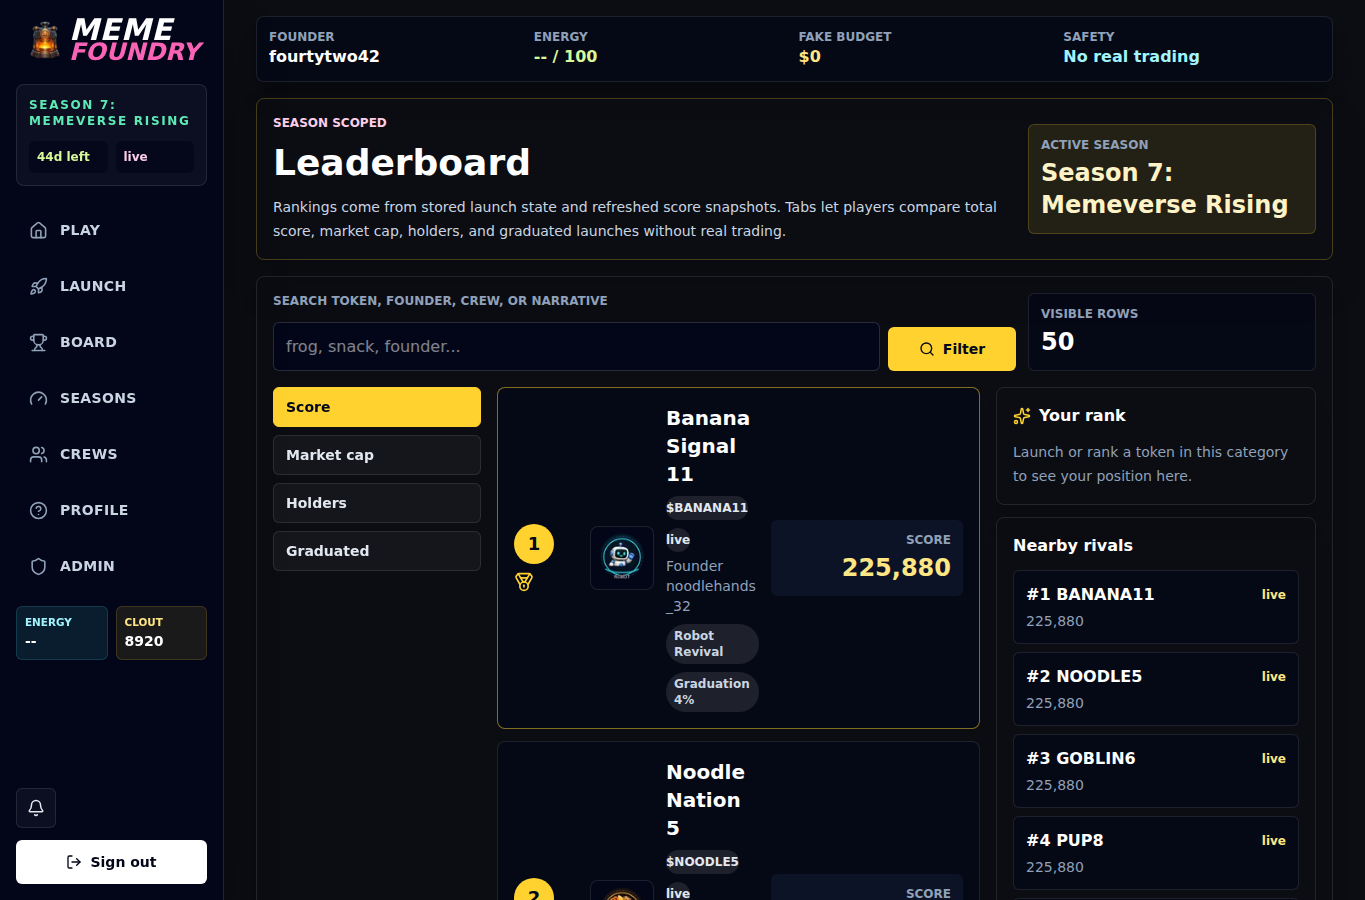
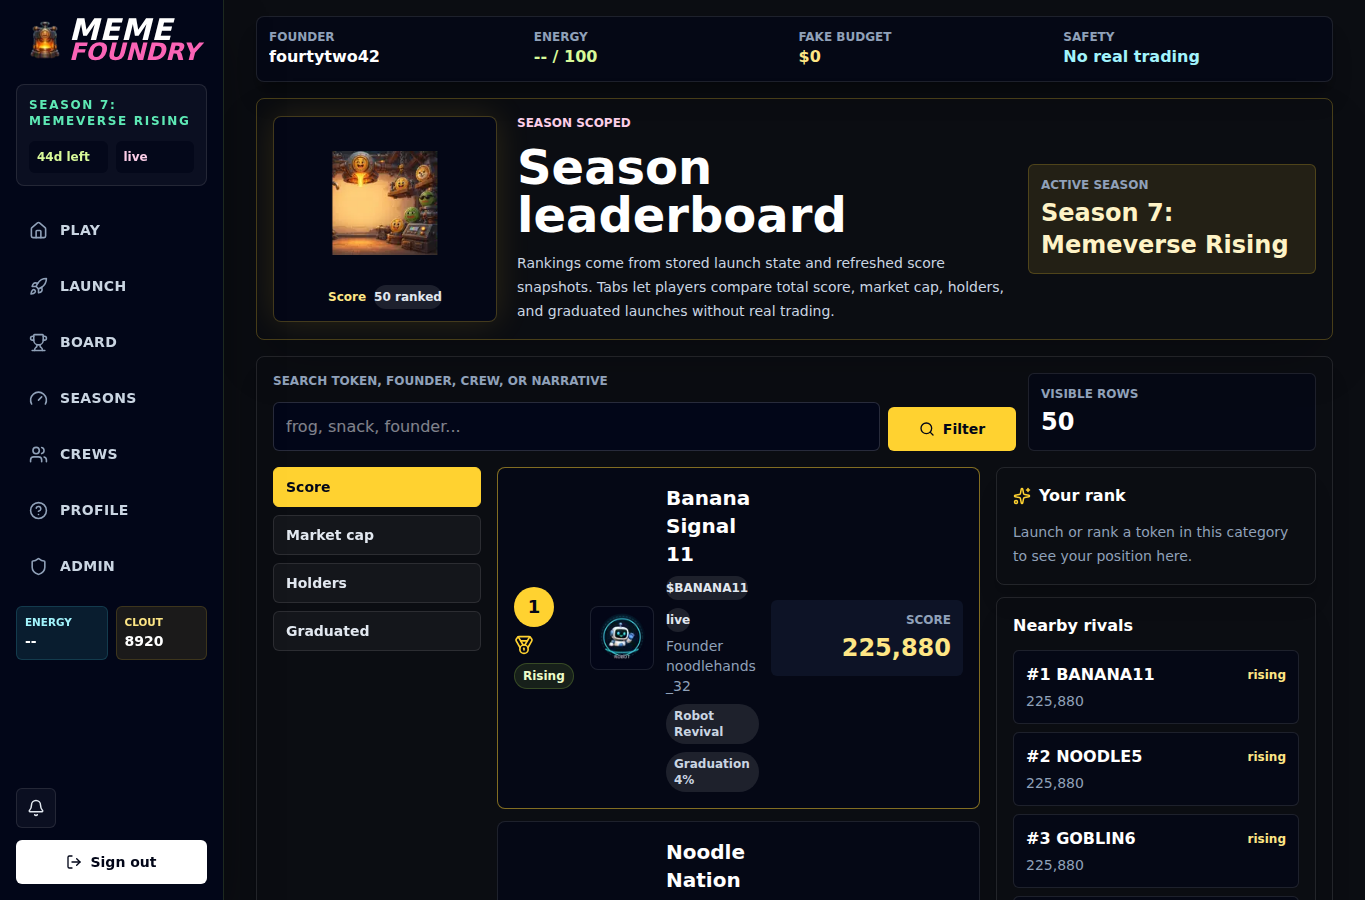
Align leaderboard competition view

diff --git a/apps/web/src/app/leaderboard/page.tsx b/apps/web/src/app/leaderboard/page.tsx
@@ -114,11 +114,27 @@ export default async function LeaderboardPage({
     <AppShell>
       <div className="grid gap-4" data-testid="leaderboard-page">
         <NeonPanel tone="amber">
-          <div className="grid gap-5 lg:grid-cols-[minmax(0,1fr)_18rem] lg:items-center">
+          <div className="grid gap-5 lg:grid-cols-[14rem_minmax(0,1fr)_18rem] lg:items-center">
+            <div className="overflow-hidden rounded-lg border border-amber-300/25 bg-slate-950/70 p-3 shadow-[0_0_34px_rgba(251,191,36,0.14)]">
+              <Image
+                alt={`${season?.name ?? "Active season"} leaderboard art`}
+                className="mx-auto aspect-[4/3] w-full object-contain"
+                height={168}
+                priority
+                src="/assets/game/share/foundry-workshop.png"
+                width={224}
+              />
+              <div className="mt-2 flex flex-wrap justify-center gap-2">
+                <Badge tone="warn">
+                  {tabs.find(([id]) => id === category)?.[1]}
+                </Badge>
+                <Badge tone="neutral">{rows.length} ranked</Badge>
+              </div>
+            </div>
             <div>
               <Kicker className="text-amber-200">Season scoped</Kicker>
-              <h1 className="mt-3 text-3xl font-black text-white sm:text-4xl">
-                Leaderboard
+              <h1 className="mt-3 text-4xl font-black text-white sm:text-5xl">
+                Season leaderboard
               </h1>
               <p className="mt-3 max-w-3xl text-sm leading-6 text-slate-300">
                 Rankings come from stored launch state and refreshed score
@@ -200,6 +216,11 @@ export default async function LeaderboardPage({
                       {snapshot.rank && snapshot.rank <= 3 ? (
                         <Medal className="text-amber-300 sm:mt-2" size={20} />
                       ) : null}
+                      <span className="mt-2 inline-flex rounded-full border border-lime-300/20 bg-lime-300/10 px-2 py-1 text-xs font-black text-lime-100">
+                        {snapshot.rank && snapshot.rank <= 10
+                          ? "Rising"
+                          : "Holding"}
+                      </span>
                     </div>
                     <div className="grid min-w-0 grid-cols-[4rem_minmax(0,1fr)] items-center gap-3">
                       <Image
@@ -296,7 +317,11 @@ export default async function LeaderboardPage({
                         <p className="font-black text-white">
                           #{snapshot.rank} {token.ticker}
                         </p>
-                        <Badge tone="warn">live</Badge>
+                        <Badge tone="warn">
+                          {snapshot.rank && snapshot.rank <= 10
+                            ? "rising"
+                            : "live"}
+                        </Badge>
                       </div>
                       <p className="mt-1 text-sm text-slate-400">
                         {formatValue(category, snapshot.score)}

diff --git a/docs/evidence/PRD_SCREEN_ALIGNMENT_STAGE9_LEADERBOARD.md b/docs/evidence/PRD_SCREEN_ALIGNMENT_STAGE9_LEADERBOARD.md
@@ -1,0 +1,41 @@
+# PRD Screen Alignment Stage 9 Leaderboard
+
+Date: 2026-05-13
+
+## Changes
+
+- Strengthened the leaderboard hero with season banner art, larger title treatment, active category badge, and ranked-row count.
+- Added visible movement chips to ranked rows.
+- Enriched nearby rival badges with rising/live movement language.
+- Preserved side-tab navigation, search/filter route state, token art rows, player rank, rivals, live movement, and rewards rail.
+
+## Browser-Use Verification
+
+Browser-use was run against `/leaderboard`.
+
+Verified:
+
+- Season leaderboard hero is visible.
+- Ranked competition, player rank, nearby rivals, live movement, rewards, and rising movement context are visible.
+- No visible fixture/test label hits for `stage15_stress`, `stress`, `E2E`, or `chromium`.
+- Filter route state works at `/leaderboard?tab=holders&q=frog`; the holders tab and query are preserved and results remain visible.
+- Console errors: `0`.
+
+## Automated Verification
+
+Passed:
+
+```bash
+pnpm --filter @meme-foundry/web typecheck
+pnpm --filter @meme-foundry/web build
+curl -fsS http://192.168.50.209/health
+PLAYWRIGHT_BASE_URL=http://192.168.50.209 pnpm test:visual-audit
+```
+
+## End Gate Result
+
+Stage 9 is complete.
+
+- First viewport better communicates ranked competition, player/rival context, and reward context.
+- Search/filter route state is preserved.
+- Fixture/test labels were not visible in browser-use checks.
